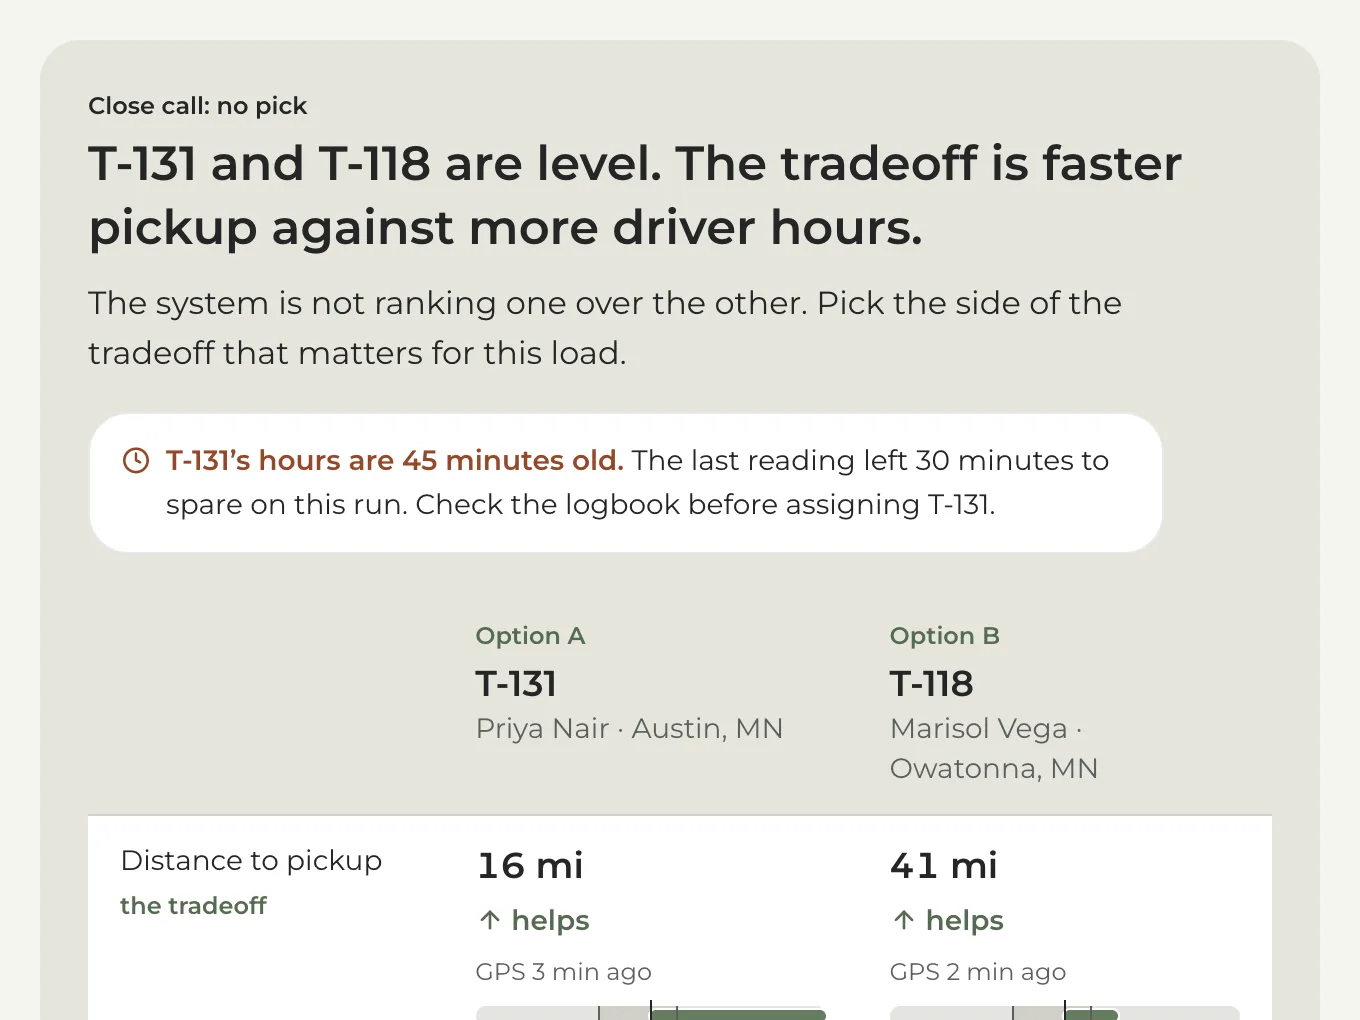
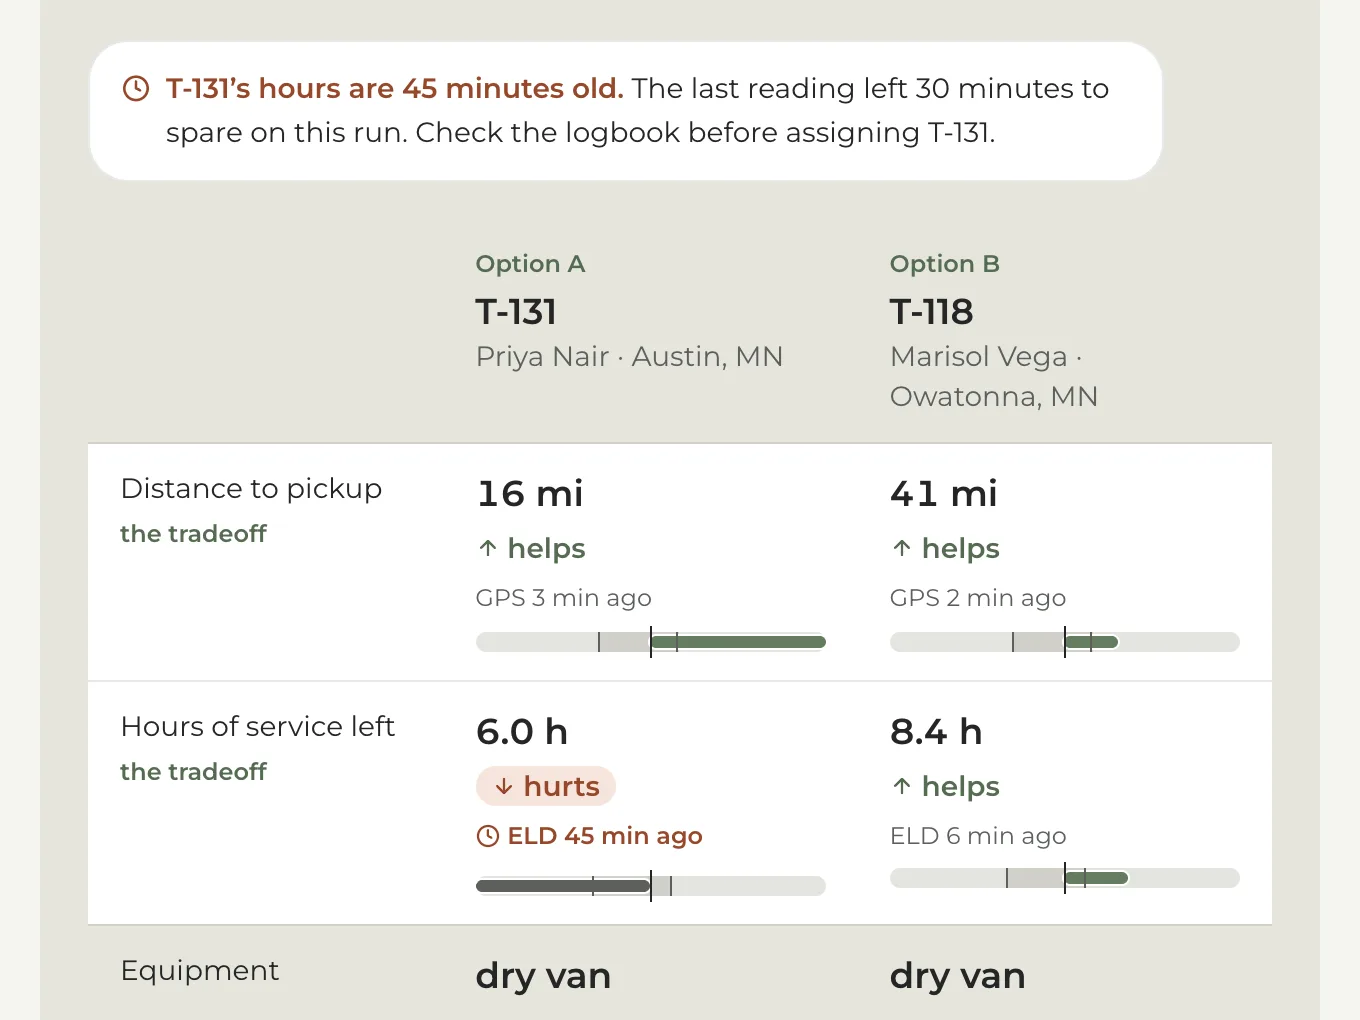
The homepage card shows the comparison, not a second copy of its own headline
The prototype card's picture is a 4:3 window on the cockpit, and it was
anchored on the close call's headline because that is where the tradeoff is
said in words -- which was the right anchor while the capture was slide 2 of
four on the prototype page, with nothing beside it saying anything.

On the homepage the card says it. The h3 is "An AI truck recommendation the
dispatcher can check and overrule" and the paragraph under it says the AI
names a truck and shows the factors and the tradeoffs. So the headline, its
dek and the stale note were spending 270 of the window's 510 pixels
restating the card, and the comparison got the option heads and one row cut
through its bar. The one thing a card like this is for is showing that the
thing is real, and the rows are the part that is real.

Anchored on the stale note instead, 20 above it, the same warm margin every
other shot leaves: the note, the two option heads, and BOTH rows the
comparison marks "the tradeoff" -- 16 mi against 41, 6.0 h against 8.4 --
each with its figure, its direction and its bar, and the third row opening
at the bottom edge. A window shows a screen that carries on; that is the
difference between it and a cut-out, and it is why the aspect is fixed.

No dimensions move: 680 by 510 at 2x is the same 1360x1020 the tablet
reserves. The alt text is rewritten to the new frame and ?v= goes to 14.

diff --git a/index.html b/index.html
@@ -601,7 +601,7 @@
                embed. -->
           <div class="case-card case-card--prototype reveal">
             <a class="case-thumb" href="prototype/dispatch-cockpit.html" aria-label="Read the case study: An AI truck recommendation the dispatcher can check and overrule">
-              <img decoding="async" loading="lazy" src="img/cockpit/slide-close-call.webp?v=13" alt="The cockpit on a close call: a card headed &ldquo;T-131 and T-118 are level. The tradeoff is faster pickup against more driver hours&rdquo;, a line saying the system is not ranking one over the other, and a comparison beneath it with Option A, T-131, against Option B, T-118. The two rows that separate them, distance to pickup and hours of service left, are raised on white and marked &ldquo;the tradeoff&rdquo;." width="1360" height="1020"/>
+              <img decoding="async" loading="lazy" src="img/cockpit/slide-close-call.webp?v=14" alt="The cockpit on a close call: a note raised on white reading &ldquo;T-131&rsquo;s hours are 45 minutes old. The last reading left 30 minutes to spare on this run. Check the logbook before assigning T-131.&rdquo;, and under it a comparison with Option A, T-131, Priya Nair, against Option B, T-118, Marisol Vega. The two rows that separate them are raised on white and marked &ldquo;the tradeoff&rdquo;: distance to pickup, 16 miles against 41, and hours of service left, 6.0 against 8.4 with T-131&rsquo;s reading marked 45 minutes old. A third row begins at the bottom edge." width="1360" height="1020"/>
             </a>
             <div class="case-card-body">
               <h3>An AI truck recommendation the dispatcher can check and overrule</h3>
